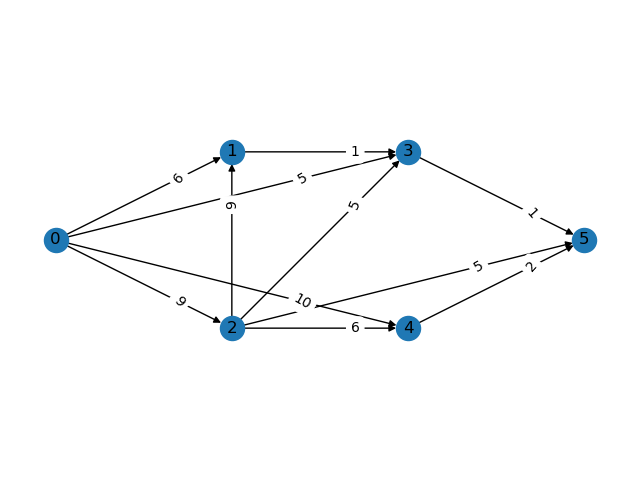
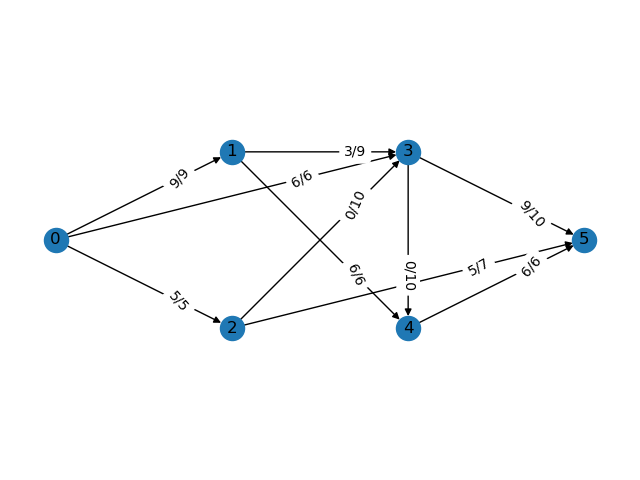
zes5 working

diff --git a/LAB5/resolvers.py b/LAB5/resolvers.py
@@ -11,8 +11,6 @@ def generate_flow_network(data, _):
 
 	network = Algorithms.generate_flow_network(N)
 	Algorithms.ford_fulkerson(network, 0, N - 1)
-	print("network: ", network)
-	print("layers: ", network.layers)
 	graph = nx.DiGraph()
 
 	for i in range(len(network.layers)):
@@ -21,7 +19,6 @@ def generate_flow_network(data, _):
 
 	for edge in network.edges:
 		nodes = edge.nodes
-		print("edge capacity: ", edge.capacity, "edge flow: ", edge.flow)
 		graph.add_edge(nodes[0].id, nodes[1].id, capacity = edge.capacity, flow = edge.flow)
 
 	labels = {}
@@ -30,7 +27,7 @@ def generate_flow_network(data, _):
 
 
 
-	edge_labels = dict([((u, v,), str(d['capacity'])) for u, v, d in graph.edges(data=True)])
+	edge_labels = dict([((u, v,), str(d['flow']) + '/' + str(d['capacity'])) for u, v, d in graph.edges(data=True)])
 
 	pos = nx.multipartite_layout(graph)
 	nx.draw(graph, pos, labels=labels)
@@ -41,10 +38,9 @@ def generate_flow_network(data, _):
 	plt.clf()
 	ret = ''
 	for edge in network.edges:
-		ret += f'{edge.nodes[0]}-->{edge.nodes[1]} cap: {edge.capacity}\n'
+		ret += f'{edge.nodes[0]}-->{edge.nodes[1]} flow: {edge.flow} cap: {edge.capacity}\n'
 
 
 	return ret
 
 
-generate_flow_network(2, 5)

diff --git a/LAB5/operations.py b/LAB5/operations.py
@@ -7,7 +7,7 @@ from .resolvers import generate_flow_network
 operations = [
     OperationStrategy(name='generate_network',
                       resolver=generate_flow_network,
-                      description='Generates random flow network with given number of layers',
+                      description='Generates random flow network with given number of layers and runs Ford-Fulkerson algorithm',
                       ins=build_options([(DataSources.FILE, DataTypes.PLAIN)]),
                       outs=build_options([(DataDestinations.CONSOLE, DataTypes.PLAIN)])),
 ]
